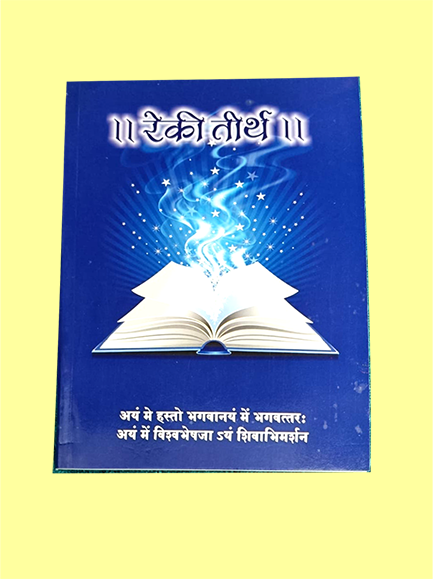
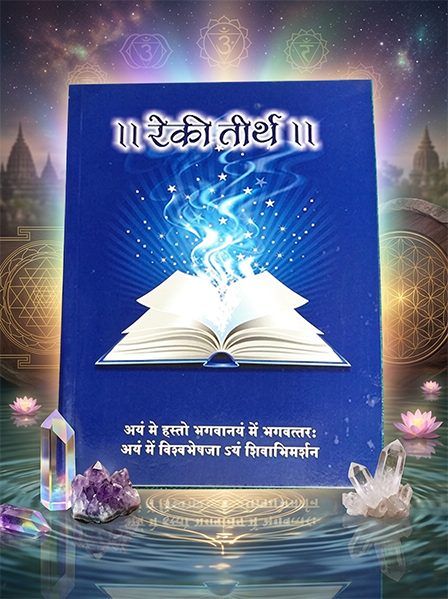
Update Product page and detail page

diff --git a/src/pages/Products.jsx b/src/pages/Products.jsx
@@ -1,6 +1,5 @@
 import React, { useState, useEffect } from 'react';
 import { useNavigate } from "react-router-dom";
-import { Link } from "react-router-dom";
 
 const Products = () => {
   const [activeCategory, setActiveCategory] = useState('all');
@@ -58,27 +57,30 @@ const Products = () => {
   // ✅ PRODUCTS (UNCHANGED)
   const products = [
     {
-      id: 1,
-      name: 'Reiki Ist Degree Book (रेकी प्रथम डिग्री पुस्तक)',
-      description: 'Reiki Ist Degree Book for all New Students only.',
-      price: '₹ 0',
-      category: 'book',
-      images: [
-        '/images/products/book/RIFP.png',
-        '/images/products/book/RIBP.png'
-      ]
-    },
-    {
-      id: 2,
-      name: 'Reiki IInd Degree Book (रेकी द्वितीय डिग्री पुस्तक)',
-      description: 'Reiki IInd Degree Book for all New Students only.',
-      price: '₹ 0',
-      category: 'book',
-      images: [
-        '/images/products/book/RIIFP.png',
-        '/images/products/book/RIIBP.png'
-      ]
-    },
+            id: 1,
+            name: 'Reiki Ist Degree Book',
+            description: 'Reiki Ist Degree Book for all New Students only.',
+            price: '₹ 0',
+            category: 'book',
+            images: [
+                '/images/products/book/RIFP.png',
+                '/images/products/book/RIBP.png',
+                '/images/products/book/RBB.png'
+                
+            ]
+        },
+        {
+            id: 2,
+            name: 'Reiki IInd Degree Book',
+            description: 'Reiki IInd Degree Book for all New Students only.',
+            price: '₹ 0',
+            category: 'book',
+            images: [
+                '/images/products/book/RIIFP.png',
+                '/images/products/book/RIIBP.png',
+                '/images/products/book/RBB.png'
+            ]
+        },
     {
       id: 3,
       name: 'Prosperity Box (समृद्धि बॉक्स)',

diff --git a/src/App.css b/src/App.css
@@ -559,8 +559,9 @@ body {
 
 .products-grid {
   display: grid;
-  grid-template-columns: repeat(auto-fit, minmax(260px, 1fr));
+  grid-template-columns: repeat(auto-fill, minmax(260px, 260px)); /* 🔥 FIXED WIDTH */
   gap: 1.5rem;
+  justify-content: center; /* 🔥 center align */
 }
 
 .product-card {
@@ -1103,11 +1104,11 @@ main > * {
 }
 
 .dot {
-  height: 8px;
-  width: 8px;
-  margin: 0 4px;
+  height: 10px;
+  width: 10px;
+  margin: 0 5px;
   background: white;
-  opacity: 0.6;
+  opacity: 0.7;
   border-radius: 50%;
   cursor: pointer;
 }
@@ -1115,6 +1116,7 @@ main > * {
 .dot.active {
   background: #ec5b86;
   opacity: 1;
+  transform: scale(1.2); /* 🔥 nice effect */
 }
 .detail-grid {
   display: flex;
@@ -1129,7 +1131,7 @@ main > * {
 .main-image {
   width: 100%;
   height: 350px;
-  object-fit: cover;
+  object-fit: contain;   /* 🔥 CHANGE THIS */
 }
 
 .thumbnail-row {
@@ -1233,6 +1235,6 @@ main > * {
 .main-image {
   width: 100%;
   height: 400px;
-  object-fit: cover;
+  object-fit: contain;   /* 🔥 CHANGE THIS */
   transition: transform 0.2s ease;
 }

diff --git a/src/pages/ProductDetail.jsx b/src/pages/ProductDetail.jsx
@@ -17,7 +17,9 @@ const ProductDetail = () => {
             category: 'book',
             images: [
                 '/images/products/book/RIFP.png',
-                '/images/products/book/RIBP.png'
+                '/images/products/book/RIBP.png',
+                '/images/products/book/RBB.png'
+                
             ]
         },
         {
@@ -28,7 +30,8 @@ const ProductDetail = () => {
             category: 'book',
             images: [
                 '/images/products/book/RIIFP.png',
-                '/images/products/book/RIIBP.png'
+                '/images/products/book/RIIBP.png',
+                '/images/products/book/RBB.png'
             ]
         },
         {
